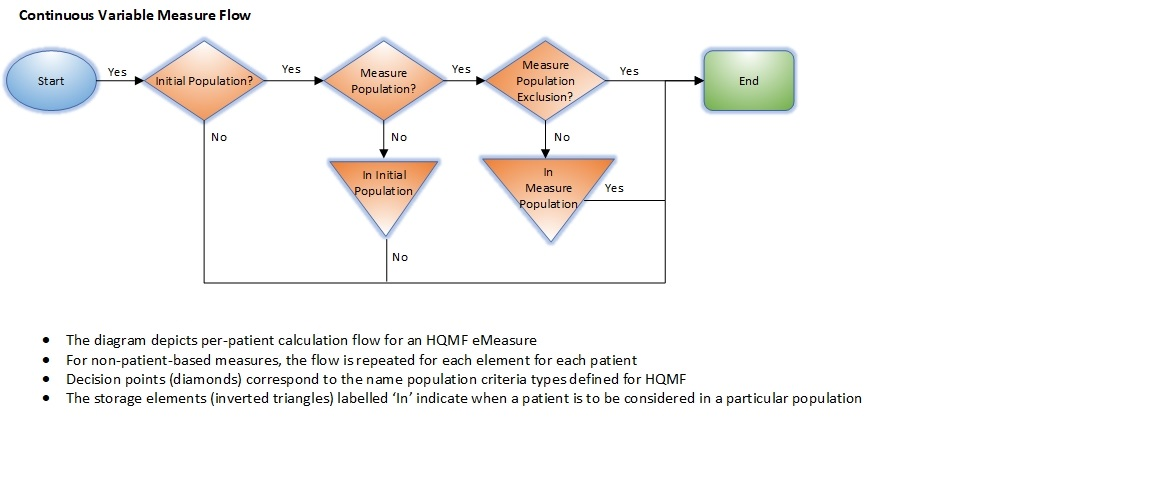
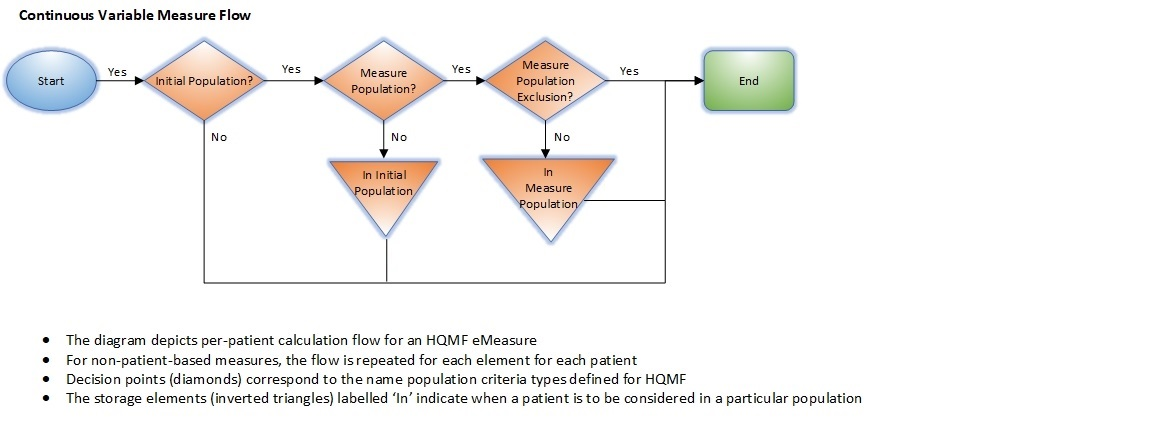
Corrected calculation flow figures to remove 'yes/no' from non-decision points

diff --git a/pages/measure-conformance.md b/pages/measure-conformance.md
@@ -773,7 +773,7 @@ Here is an example of using the population types to select data on patients with
 
 **Figure 3-7: Calcuation Flow for Ratio Measure Score**
 
-![Calculation Flow Diagram-Ratio](assets/images/CalculationFlow.jpg)
+![Calculation Flow Diagram-Ratio](assets/images/CalculationFlow.png)
 
 * Initial population (IPOP): Identify those cases that meet the IPOP criteria. (Some ratio measures will require multiple initial populations, one for the numerator, and one for the denominator.)
 * Denominator (DENOM): Identify that subset of the IPOP that meet the DENOM criteria.
